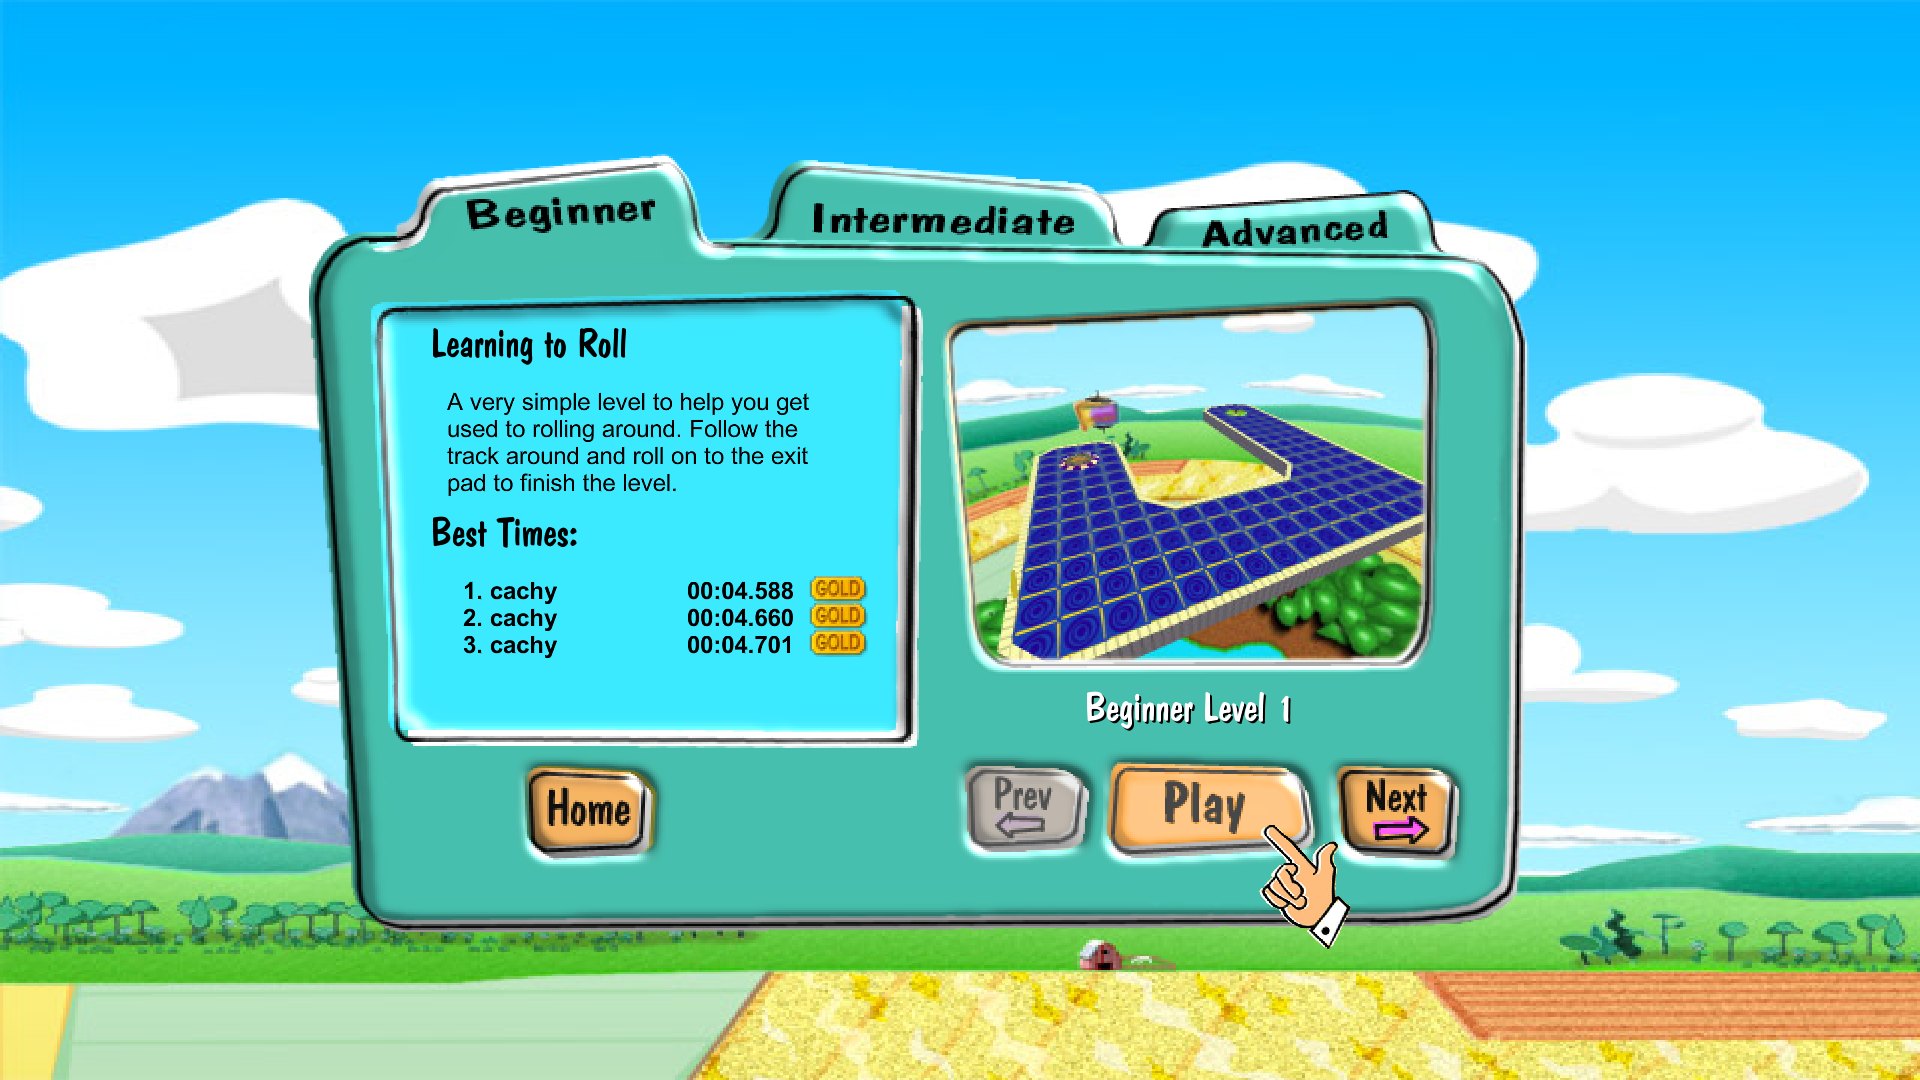
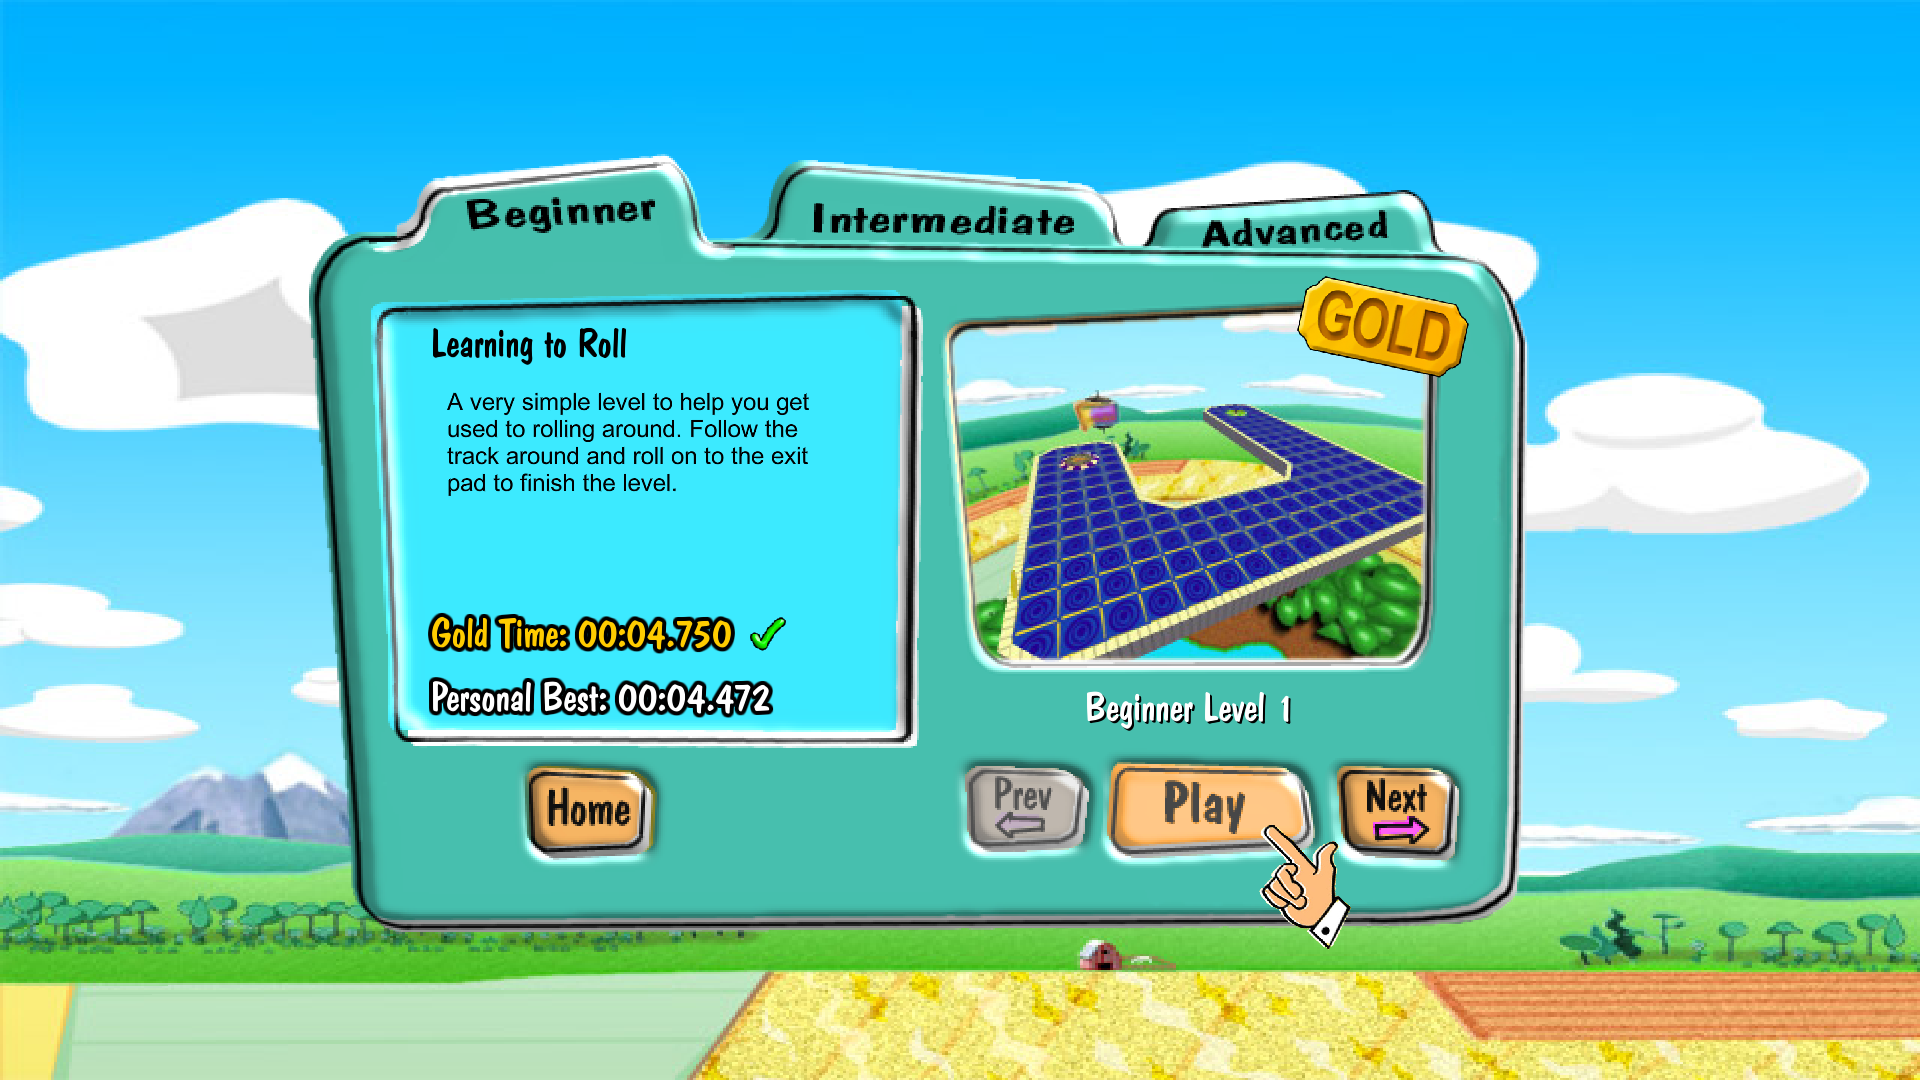
Document the gold time and end-game changes in the readme
Replaces the level select screenshot, which still showed the removed
best-times table, adds the end-game screen, and describes the times now
printed during play, on the level panel, and on the end-game screen.

Changed region(s): [[0.2188, 0.4583, 0.4688, 0.6722], [0.6562, 0.2444, 0.7812, 0.3667]]

diff --git a/README.md b/README.md
@@ -10,7 +10,7 @@ It runs on Linux and Windows. Linux builds ship as a portable directory and an A
 
 ## Features
 
-- Full controller navigation across the menus, dialogs, level selector, options, gameplay, and high score screens
+- Full controller navigation across the menus, dialogs, level selector, options, gameplay, and end-game screens
 - Xbox-based button prompts that replace keyboard instructions when a controller is active
 - A pointer-finger cursor designed to fit the original game's art style
 - Fractional GUI scaling based on monitor resolution, affecting UI and HUD
@@ -21,13 +21,28 @@ It runs on Linux and Windows. Linux builds ship as a portable directory and an A
 - Continuous level browsing across Beginner, Intermediate, and Advanced categories, stopping only at the end of the game
 - Level names moved below the preview image for improved readability
 - Gold time and personal best printed either side of the in-game timer
-- A gold badge and fanfare when a run beats the level's gold time
-- A rebuilt end-game screen: gold result headline, new personal best banner, and the level's qualify and gold times with achieved checkboxes
+- A gold badge burst and fanfare when a run beats the level's gold time
+- A rebuilt end-game screen led by the run's final time, with the qualify and gold times check marked for how the run did against them
+- Bonus time shown as the subtraction it is, on levels that hand it out
 - A single personal best in place of the three name high score table, with a gold badge over levels already taken gold in the level select
 
 ![Level selector](docs/screenshots/level-select.png)
 
 The level selector can move continuously through every level in the game, instead of abruptly stopping at the end of a difficulty set. Completing a level also offers the next level directly, making a full playthrough feel like one uninterrupted sequence.
+
+Each level shows its qualify time, its gold time, and your personal best in the corner of its panel, in the same colours the in-game timer uses. Levels already taken gold are marked with a check beside the gold time and a gold badge over the preview image, so a pass down the list shows what is left to do.
+
+## Times, gold, and personal bests
+
+![End-game screen after beating the gold time](docs/screenshots/end-game.png)
+
+The gold time and your personal best are printed either side of the timer during play, so the target is on screen while you are chasing it. Finishing under the gold time bursts a gold badge out of the middle of the screen with a fanfare.
+
+The end-game screen is built around the time the run is judged on. The final time is the headline, drawn with the gameplay timer's own digits, and the level's gold and qualify times each carry a check or a cross for how the run did against them. Beating your stored time raises a new personal best banner.
+
+Levels that award bonus time show the working above the result: the elapsed time, the bonus time subtracted from it, and then the final time. Every value comes out of whole milliseconds, so the subtraction adds up exactly as printed.
+
+A single personal best replaces the original three-name high score table, in both this screen and the level selector. Every time belongs to whoever is holding the controller, and a run that beats the stored time is saved without opening a text entry dialog a gamepad cannot type into.
 
 ## Controller-first options
 
@@ -56,7 +71,7 @@ Both the portable build and AppImage store configuration in:
 
 If `XDG_CONFIG_HOME` is set, the directory is `$XDG_CONFIG_HOME/controller-roller` instead. The game stores its normal preferences in `settings.json` and creates an editable `settings.ini` for manual overrides.
 
-To choose the player name shown on local high scores, edit `settings.ini` and set:
+To choose the player name your personal best times are saved under, edit `settings.ini` and set:
 
 ```ini
 username=username
